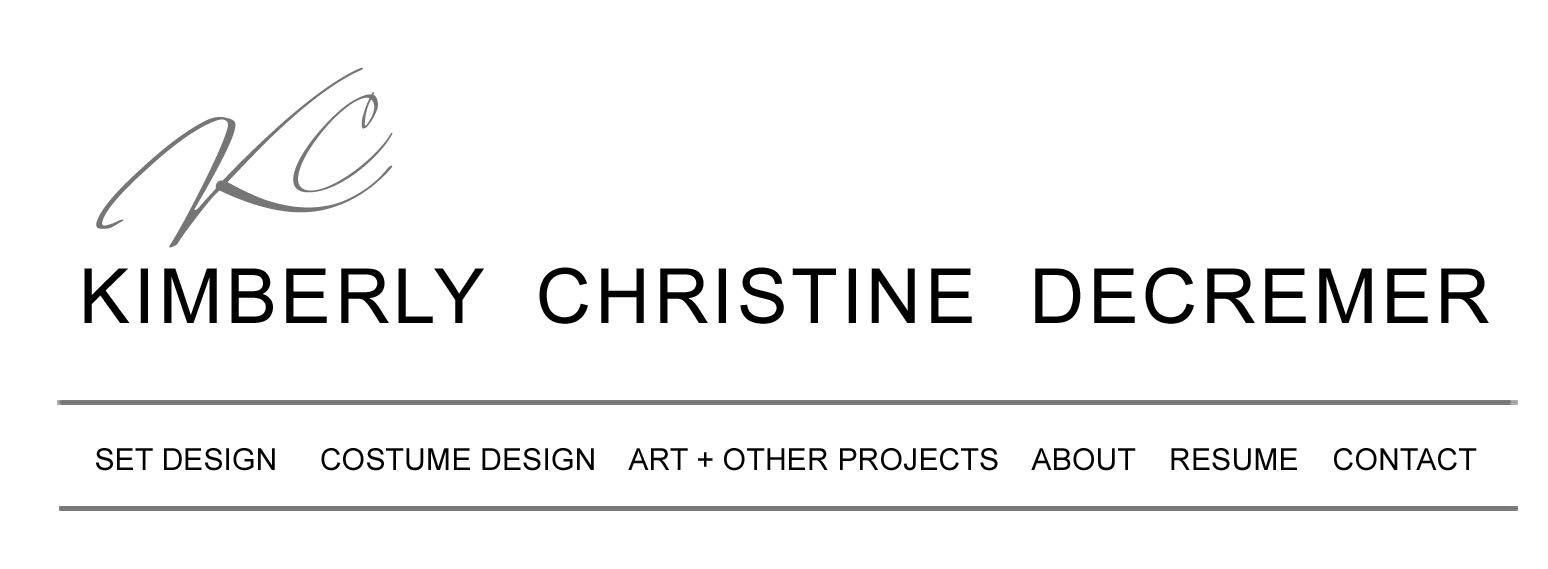
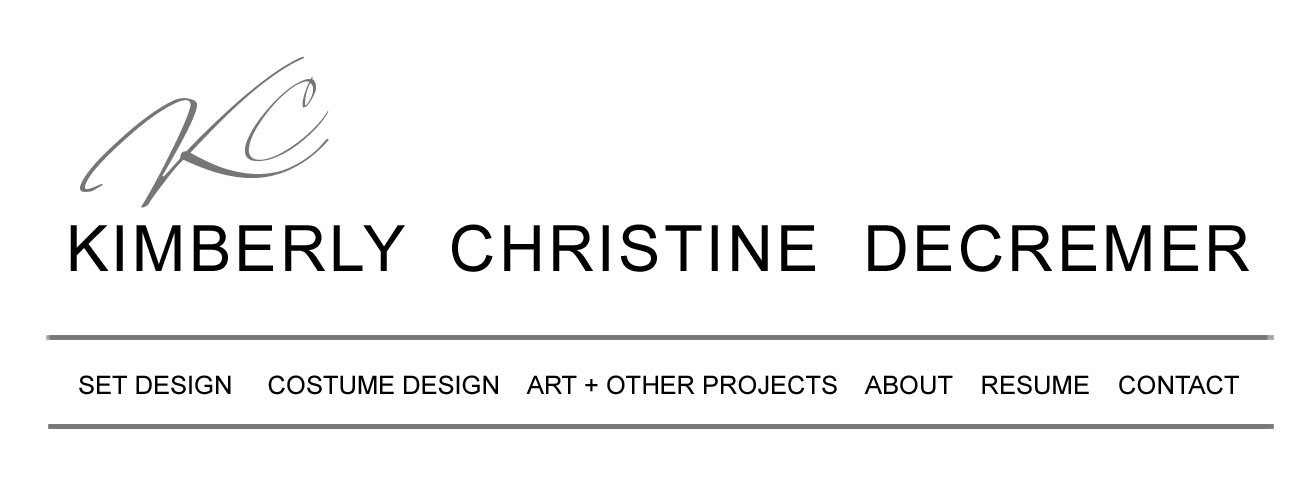
Add files via upload

diff --git a/index.html b/index.html
@@ -6,20 +6,20 @@
 </head>
 
 <body>
-<table width="1546" border="0" align="center">
+<table width="1300" border="0" align="center">
   <tbody>
     <tr>
-      <td><table width="1546" border="0">
+      <td><table width="1300" border="0">
         <tbody>
           <tr>
-            <td><img src="header.jpg" width="1548" height="569" alt=""/></td>
+            <td align="center"><img src="header.jpg" width="1299" height="478" alt=""/></td>
           </tr>
         </tbody>
       </table></td>
     </tr>
   </tbody>
 </table>
-<table width="1546" border="0" align="center">
+<table width="1300" border="0" align="center">
   <tbody>
     <tr>
       <td align="center" style="font-size: 48px">Set Design</td>
@@ -27,7 +27,7 @@
   </tbody>
 </table>
 <p>&nbsp;</p>
-<table width="1546" border="0" align="center">
+<table width="1379" border="0" align="center">
   <tbody>
     <tr>
       <td>&nbsp;</td>
